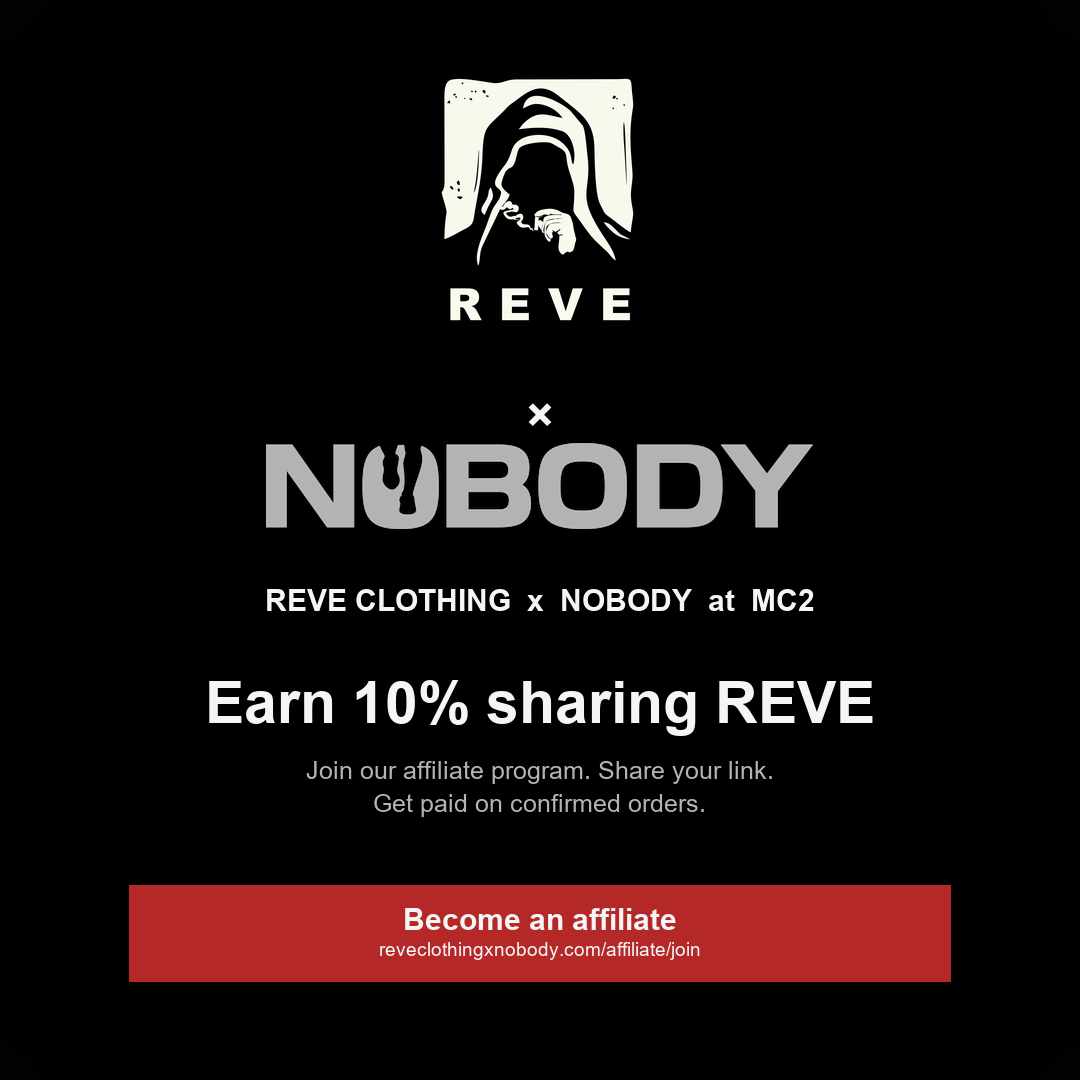
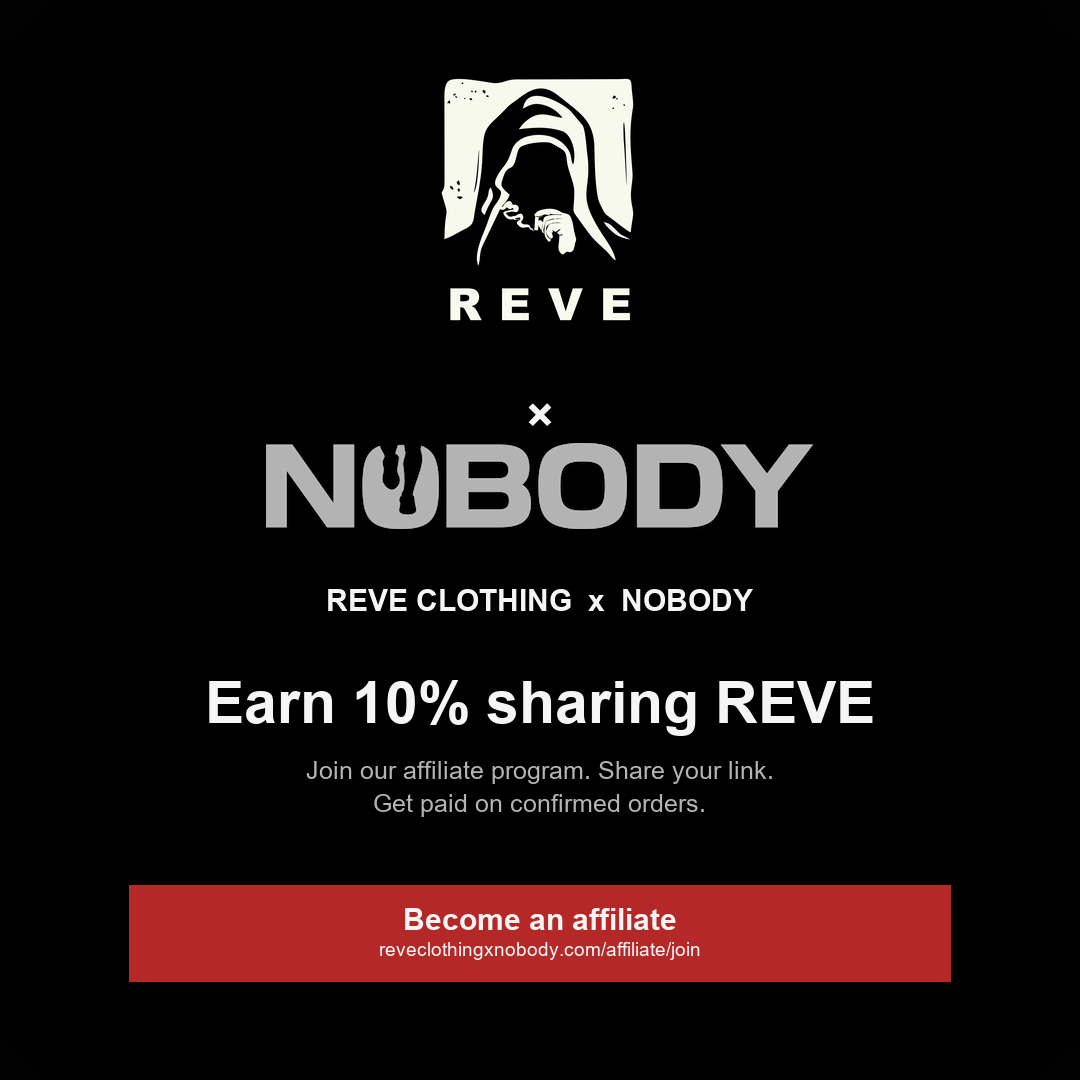
Remove MC2 from affiliate branding.
Guide, posters, and how-to PDF now use Reve Clothing x Nobody only.

Changed region(s): [[0.2444, 0.5194, 0.7639, 0.5806]]

diff --git a/src/views/AffiliateGuide.tsx b/src/views/AffiliateGuide.tsx
@@ -16,7 +16,7 @@ import SEO from "@/components/SEO";
 import reveLogo from "@/assets/reve-logo.jpg";
 import nobodyLogo from "@/assets/nobody-logo.png";
 
-const BRAND = "Reve Clothing x Nobody at MC2";
+const BRAND = "Reve Clothing x Nobody";
 
 /**
  * In-app guide — logos + posters displayed on the page (not download-only).
@@ -26,7 +26,7 @@ export default function AffiliateGuide() {
     <div className="min-h-screen bg-background flex flex-col">
       <SEO
         title={`${BRAND} | Affiliate How to Use`}
-        description="How to join and use the Reve Clothing x Nobody at MC2 affiliate program. Earn 10% on confirmed paid orders."
+        description="How to join and use the Reve Clothing x Nobody affiliate program. Earn 10% on confirmed paid orders."
       />
       <Header />
       <main className="flex-1 container pt-24 pb-12 px-4 max-w-4xl">

diff --git a/src/components/sections/AffiliateCta.tsx b/src/components/sections/AffiliateCta.tsx
@@ -23,7 +23,7 @@ const AffiliateCta = () => {
             Earn 10% sharing REVE
           </h2>
           <p className="text-muted-foreground text-sm md:text-base leading-relaxed">
-            Reve Clothing x Nobody at MC2 affiliate program — get a unique link, share with your
+            Reve Clothing x Nobody affiliate program — get a unique link, share with your
             community, and earn commission on confirmed paid orders. Free to join — approval
             required.
           </p>

diff --git a/scripts/compose-affiliate-posters.py b/scripts/compose-affiliate-posters.py
@@ -86,7 +86,7 @@ def make_poster(size: tuple[int, int], out_name: str, story: bool = False):
         cta_y = int(h * 0.82)
 
     lockup_font = load_font(int(h * (0.024 if story else 0.028)), bold=True)
-    draw_centered(draw, "REVE CLOTHING  x  NOBODY  at  MC2", lockup_y, lockup_font, WHITE, w)
+    draw_centered(draw, "REVE CLOTHING  x  NOBODY", lockup_y, lockup_font, WHITE, w)
 
     headline_font = load_font(int(h * (0.048 if story else 0.055)), bold=True)
     draw_centered(draw, "Earn 10% sharing REVE", headline_y, headline_font, WHITE, w)

diff --git a/scripts/generate-affiliate-howto-pdf.py b/scripts/generate-affiliate-howto-pdf.py
@@ -14,7 +14,7 @@ OUT.parent.mkdir(parents=True, exist_ok=True)
 DOCS_OUT.parent.mkdir(parents=True, exist_ok=True)
 TMP.mkdir(parents=True, exist_ok=True)
 
-BRAND = "Reve Clothing x Nobody at MC2"
+BRAND = "Reve Clothing x Nobody"
 BLACK = (20, 20, 20)
 GRAY = (90, 90, 90)
 LIGHT = (245, 245, 245)
